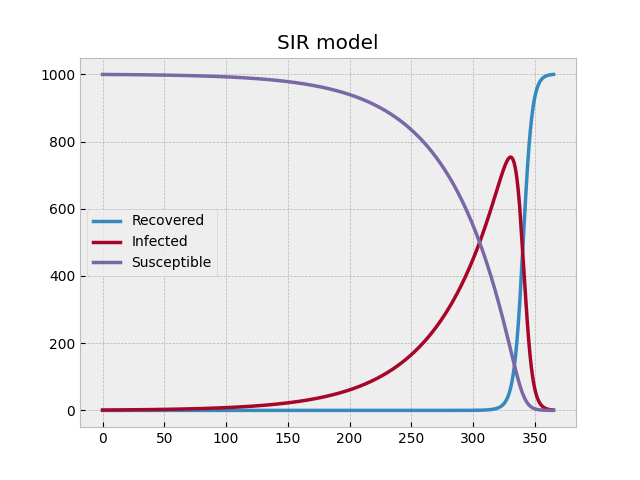
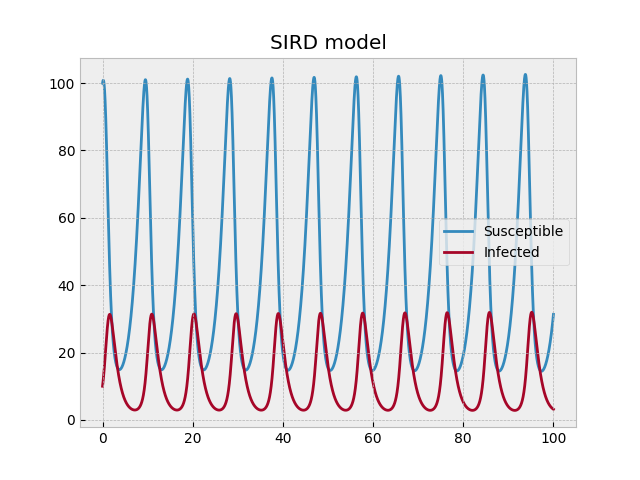
added quicksort

diff --git a/euler_estimator/euler_estimator.py b/euler_estimator/euler_estimator.py
@@ -17,10 +17,6 @@ class EulerEstimator:
         
     def go_to_input(self, stop_x, step_size):
         while abs(self.point[0]) < abs(stop_x):
-            derivatives = self.calc_derivative_at_point()
-            print("\nPoint: " + str(self.point))
-            print("derivative: "+str(derivatives))
-            print("Delta: "+str(step_size)+","+ str([(step_size*derivatives[x]) for x in range(len(derivatives))]))
             if self.point[0] + step_size <= stop_x:
                 self.step_forward(step_size)
             else:
@@ -28,52 +24,24 @@ class EulerEstimator:
                 self.step_forward(step_size)
         return self.point
 
+    
+
     def plot(self, interval, step_size, filename):
-        start_point = [point for point in self.point]
-        positive_coord_set = self.positive_movement(interval,step_size)
-        self.point = start_point
-        negative_coord_set = self.negative_movement(interval,step_size)
-
-        for negative_set in negative_coord_set[1]:
-            negative_set = negative_set[::-1]
-        x_coords_negative = negative_coord_set[0][::-1]
-        y_coords = []
-        for i in range(len(self.derivatives)):
-            y_coords.append(negative_coord_set[1][i] + positive_coord_set[1][i])
-        #print(x_coords[0])
-        x_coords = x_coords_negative + positive_coord_set[0]
-        x_coords = x_coords[::-1]
+        x_data = [round(interval[0]+i*step_size, 10)
+                  for i in range(int((interval[1]-interval[0])/step_size)+1)]
+        given_index = x_data.index(self.point[0])
+        given_point = self.point
+        y_data = []
+        for x in x_data[:given_index][::-1]:
+            self.go_to_input(x, step_size)
+            y_data.insert(0, self.point[1])
+        self.point = given_point
+        for x in x_data[given_index:]:
+            self.go_to_input(x, step_size)
+            y_data.append(self.point[1])
         plt.style.use('bmh')
-        for coord_set in y_coords:
-            plt.plot(x_coords,coord_set,linewidth = 2.5)
-        plt.legend(['Recovered','Infected','Susceptible'])
-        plt.title("SIR model")
+        for y_vals in zip(*y_data):
+            plt.plot(x_data, y_vals, zorder=1)
+        plt.legend(['Susceptible','Infected','Recovered','Dead'])
+        plt.title('SIRD model')
         plt.savefig(filename)
-
-    def positive_movement(self, interval, step_size):
-        y_coords = [[] for _ in range(len(self.derivatives))]
-        x_coords = []
-        while self.point[0] < interval[1]:
-            if self.point[0] + step_size <= interval[1]:
-                self.step_forward(step_size)
-            else:
-                adjusted_step_size = (interval[1] - self.point[0])
-                self.step_forward(adjusted_step_size)
-            for x in range(len(self.derivatives)):
-                y_coords[x].append(self.point[1][x])
-            x_coords.append(self.point[0])
-        return x_coords, y_coords
-
-    def negative_movement(self,interval,step_size):
-        y_coords = [[] for _ in range(len(self.derivatives))]
-        x_coords = []
-        while self.point[0] > interval[0]:
-            if self.point[0] + -1 * step_size >= interval[0]:
-                self.step_forward(-1*step_size)
-            else:
-                adjusted_step_size = (interval[0] + self.point[0])
-                self.step_forward(adjusted_step_size)
-            for x in range(len(self.derivatives)):
-                y_coords[x].append(self.point[1][x])
-            x_coords.append(self.point[0])
-        return x_coords, y_coords

diff --git a/hodgen_huxley/neuron.py b/hodgen_huxley/neuron.py
@@ -1,0 +1,65 @@
+import math 
+import matplotlib.pyplot as plt
+import sys
+sys.path.append('euler_estimator')
+from euler_estimator import EulerEstimator
+class Neuron:
+    def __init__(self, stimulus):
+        self.s_t = stimulus
+        self.h_0 = 0.07 * (math.e**3 + 1)/((0.07 * (math.e**3 + 1))+1)
+        self.n_0 = 1/(1.25*(math.e-1)+1)
+        self.m_0 = 2.5/(2.5+4*(math.e**2.5 - 1))
+
+    def an(self, t, x):
+        return 0.01*(10-x[0])/(math.exp(0.1*(10-x[0]))-1)
+
+    def Bn(self, t, x):
+        return 0.125*math.exp(-x[0]/80)
+
+    def am(self, t, x):
+        return 0.1*(25-x[0])/(math.exp(0.1*(25-x[0]))-1)
+
+    def Bm(self, t, x):
+        return 4*math.exp(-x[0]/18)
+
+    def ah(self, t, x):
+        return 0.07 * math.exp(-x[0]/20)
+
+    def Bh(self, t, x):
+        return 1/(math.exp(0.1*(30-x[0]))+1)
+
+    def dn_dt(self, t, x):
+        return self.an(t, x)*(1 - x[1]) - self.Bn(t, x)*x[1]
+
+    def dm_dt(self, t, x):
+        return self.am(t, x)*(1 - x[2]) - self.Bm(t, x)*x[2]
+
+    def dh_dt(self, t, x):
+        return self.ah(t, x)*(1 - x[3]) - self.Bh(t, x)*x[3]
+    def INa(self, t, x):
+        return self.gna(t, x)*(x[0]-115)
+
+    def gna(self, t, x):
+        return 120 * x[2]**3 * x[3]
+
+    def Ik(self, t, x):
+        return self.gk(t, x)*(x[0]+12)
+
+    def gk(self, t, x):
+        return 36 * x[1]**4
+
+    def IL(self, t, x):
+        return self.gl(t, x)*(x[0]-10.6)
+
+    def gl(self, t, x):
+        return 0.3
+
+    def dV(self, t, x):
+        return (self.s_t(t) - self.INa(t, x) - self.Ik(t, x) - self.IL(t, x))
+
+    def plot_activity(self):
+        estimator = EulerEstimator(derivatives = [self.dV, self.dn_dt, self.dm_dt, self.dh_dt],
+                point = (0, (0, self.n_0, self.m_0, self.h_0)))
+        plt.plot([n/2 for n in range(160)], [self.s_t(n/2) for n in range(160)])
+
+        estimator.plot([0, 80], step_size=0.02,filename="hodgen_huxley.png")

diff --git a/euler_estimator/test_euler_estimator.py b/euler_estimator/test_euler_estimator.py
@@ -76,19 +76,20 @@ from euler_estimator import EulerEstimator
 #(10.88, 3.25, 11.86)
 # euler.plot([-5,5], step_size = 0.1, filename = 'plot.png')
 
-# euler = EulerEstimator(
-#                 derivatives = [
-#                     (lambda x: 0.6*x[0] - 0.05*x[0]*x[1]),
-#                     (lambda x: -0.9*x[1] + 0.02*x[0]*x[1])
-#                     ],
-#                 point = (0,(100,10))
-#             )
 euler = EulerEstimator(
                 derivatives = [
-                    (lambda x: -0.0003*x[1]*x[0]),
-                    (lambda x: 0.0003*x[1]*x[0] - 0.02*x[1]),
-                    (lambda x: 0.02*x[1])
+                    (lambda x: 0.6*x[0] - 0.05*x[0]*x[1]),
+                    (lambda x: -0.9*x[1] + 0.02*x[0]*x[1])
                     ],
-                point = (0,(1000,1,0))
+                point = (0,(100,10))
             )
-euler.plot([0,365], step_size = 0.001, filename = 'plot.png')
+# euler = EulerEstimator(
+#                 derivatives = [
+#                     (lambda x: -0.0003*x[1]*x[0]),
+#                     (lambda x: 0.0003*x[1]*x[0] - 0.02*x[1] - 0.01*x[1]),
+#                     (lambda x: 0.02*x[1]),
+#                     (lambda x: 0.01*x[1])
+#                     ],
+#                 point = (0,(1000,1,0,0))
+#             )
+euler.plot([0,100], step_size = 0.001, filename = 'plot.png')

diff --git a/quicksort.py b/quicksort.py
@@ -1,0 +1,24 @@
+def quicksort(list_):
+    midpoint = list_[len(list_)-1]
+    del list_[len(list_)-1]
+    leq = []
+    greater = []
+    for elem in list_:
+        if elem <= midpoint:
+            leq.append(elem)
+        else:
+            greater.append(elem)
+    if len(leq) > 1 and len(greater)>1:
+        maybe = quicksort(leq)+[midpoint]+quicksort(greater)
+        return maybe
+    elif len(leq) > 1 and len(greater)<=1:
+        maybe = quicksort(leq)+[midpoint]+greater
+        return maybe
+    elif len(greater) > 1 and len(leq)<=1:
+        maybe = leq+[midpoint]+quicksort(greater)
+        return maybe
+    elif len(leq) <=1 and len(greater)<=1:
+        leq.append(midpoint)
+        return leq+greater
+        
+print(quicksort([10,2,7,1,8,3,9,6,5,4]))

diff --git a/hodgen_huxley/hodgen_huxley.py b/hodgen_huxley/hodgen_huxley.py
@@ -1,0 +1,17 @@
+from neuron import Neuron
+
+
+def s_t(t):
+    if 10 <= t <= 11 or 20 <= t <= 21 or \
+            30 <= t <= 40 or 50 <= t <= 51 or \
+            53 <= t <= 54 or 56 <= t <= 57 or \
+            59 <= t <= 60 or 62 <= t <= 63 or \
+            65 <= t <= 66:
+        return 150
+    return 0
+
+
+neuron = Neuron(s_t)
+neuron.plot_activity()
+
+
